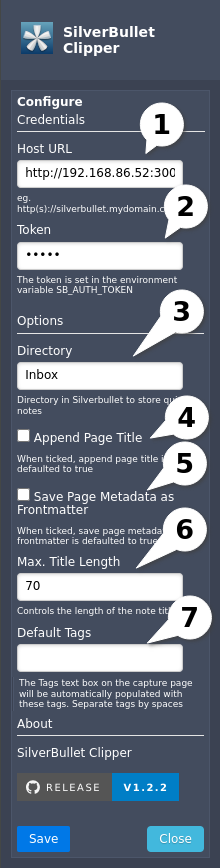
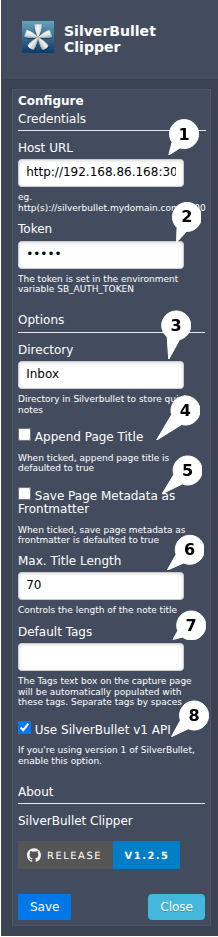
v1.3.5 Added compatibility to SB v2 and backward compatability to v1. Tried to fix images coming from CDNs

diff --git a/src/js/popup.template.js b/src/js/popup.template.js
@@ -33,10 +33,11 @@ document.addEventListener("DOMContentLoaded", () => {
         const token = document.getElementById("token").value;
         const directory = document.getElementById('directory').value;
         const appendPageTitleDefault = document.getElementById('append-page-title-default').checked;
+        const useSilverBulletV1API = document.getElementById('use-silverbullet-v1-api').checked;
         const saveMetadataAsFrontmatterDefault = document.getElementById('save-metadata-as-frontmatter-default').checked;
         const maxTitleLength = document.getElementById("max-title-length").value;
         const defaultTags = document.getElementById("default-tags").value;
-        <%= runTime %>.storage.sync.set({ "hostURL": hostURL, "token": token, "directory": directory, "appendPageTitleDefault": appendPageTitleDefault, "maxTitleLength": maxTitleLength, "saveMetadataAsFrontmatterDefault": saveMetadataAsFrontmatterDefault, "defaultTags": defaultTags }, () => {
+        <%= runTime %>.storage.sync.set({ "hostURL": hostURL, "token": token, "directory": directory, "appendPageTitleDefault": appendPageTitleDefault, "maxTitleLength": maxTitleLength, "saveMetadataAsFrontmatterDefault": saveMetadataAsFrontmatterDefault, "defaultTags": defaultTags, "useSilverBulletV1API": useSilverBulletV1API }, () => {
             hideConfigure();
             showCapture();
             document.getElementById('append-page-title').checked = appendPageTitleDefault;
@@ -71,7 +72,7 @@ document.addEventListener("DOMContentLoaded", () => {
     });
     displayTitle();
     //Prompt to provide credentials if they are missing
-    <%= runTime %>.storage.sync.get(["hostURL", "token", "directory", "appendPageTitleDefault", "saveMetadataAsFrontmatterDefault", "defaultTags"]).then(items => {
+    <%= runTime %>.storage.sync.get(["hostURL", "token", "directory", "appendPageTitleDefault", "saveMetadataAsFrontmatterDefault", "defaultTags", "useSilverBulletV1API"]).then(items => {
         if(items === null || items.hostURL === null || items.hostURL === '' || items.directory === null || items.directory === '') 
         {
             hideCapture();
@@ -99,11 +100,12 @@ function showConfigure() {
         configure.classList.remove("hidden");
     }
     //Get the hostURL and token from storage
-    <%= runTime %>.storage.sync.get(["hostURL", "token", "directory", "appendPageTitleDefault", "maxTitleLength", "saveMetadataAsFrontmatterDefault", "defaultTags"], (items) => {
+    <%= runTime %>.storage.sync.get(["hostURL", "token", "directory", "appendPageTitleDefault", "maxTitleLength", "saveMetadataAsFrontmatterDefault", "defaultTags", "useSilverBulletV1API"], (items) => {
         document.getElementById('hostURL').value = items?.hostURL || '';
         document.getElementById('token').value = items?.token || '';
         document.getElementById('directory').value = items.directory || 'Inbox';
         document.getElementById('append-page-title-default').checked = items.appendPageTitleDefault;
+        document.getElementById('use-silverbullet-v1-api').checked = items.useSilverBulletV1API;
         document.getElementById('save-metadata-as-frontmatter-default').checked = items.saveMetadataAsFrontmatterDefault;
         document.getElementById('max-title-length').value = items.maxTitleLength || '70';
         document.getElementById('default-tags').value = items.defaultTags || '';

diff --git a/dist/firefox/js/popup.js b/dist/firefox/js/popup.js
@@ -33,10 +33,11 @@ document.addEventListener("DOMContentLoaded", () => {
         const token = document.getElementById("token").value;
         const directory = document.getElementById('directory').value;
         const appendPageTitleDefault = document.getElementById('append-page-title-default').checked;
+        const useSilverBulletV1API = document.getElementById('use-silverbullet-v1-api').checked;
         const saveMetadataAsFrontmatterDefault = document.getElementById('save-metadata-as-frontmatter-default').checked;
         const maxTitleLength = document.getElementById("max-title-length").value;
         const defaultTags = document.getElementById("default-tags").value;
-        browser.storage.sync.set({ "hostURL": hostURL, "token": token, "directory": directory, "appendPageTitleDefault": appendPageTitleDefault, "maxTitleLength": maxTitleLength, "saveMetadataAsFrontmatterDefault": saveMetadataAsFrontmatterDefault, "defaultTags": defaultTags }, () => {
+        browser.storage.sync.set({ "hostURL": hostURL, "token": token, "directory": directory, "appendPageTitleDefault": appendPageTitleDefault, "maxTitleLength": maxTitleLength, "saveMetadataAsFrontmatterDefault": saveMetadataAsFrontmatterDefault, "defaultTags": defaultTags, "useSilverBulletV1API": useSilverBulletV1API }, () => {
             hideConfigure();
             showCapture();
             document.getElementById('append-page-title').checked = appendPageTitleDefault;
@@ -71,7 +72,7 @@ document.addEventListener("DOMContentLoaded", () => {
     });
     displayTitle();
     //Prompt to provide credentials if they are missing
-    browser.storage.sync.get(["hostURL", "token", "directory", "appendPageTitleDefault", "saveMetadataAsFrontmatterDefault", "defaultTags"]).then(items => {
+    browser.storage.sync.get(["hostURL", "token", "directory", "appendPageTitleDefault", "saveMetadataAsFrontmatterDefault", "defaultTags", "useSilverBulletV1API"]).then(items => {
         if(items === null || items.hostURL === null || items.hostURL === '' || items.directory === null || items.directory === '') 
         {
             hideCapture();
@@ -99,11 +100,12 @@ function showConfigure() {
         configure.classList.remove("hidden");
     }
     //Get the hostURL and token from storage
-    browser.storage.sync.get(["hostURL", "token", "directory", "appendPageTitleDefault", "maxTitleLength", "saveMetadataAsFrontmatterDefault", "defaultTags"], (items) => {
+    browser.storage.sync.get(["hostURL", "token", "directory", "appendPageTitleDefault", "maxTitleLength", "saveMetadataAsFrontmatterDefault", "defaultTags", "useSilverBulletV1API"], (items) => {
         document.getElementById('hostURL').value = items?.hostURL || '';
         document.getElementById('token').value = items?.token || '';
         document.getElementById('directory').value = items.directory || 'Inbox';
         document.getElementById('append-page-title-default').checked = items.appendPageTitleDefault;
+        document.getElementById('use-silverbullet-v1-api').checked = items.useSilverBulletV1API;
         document.getElementById('save-metadata-as-frontmatter-default').checked = items.saveMetadataAsFrontmatterDefault;
         document.getElementById('max-title-length').value = items.maxTitleLength || '70';
         document.getElementById('default-tags').value = items.defaultTags || '';

diff --git a/dist/chrome/js/popup.js b/dist/chrome/js/popup.js
@@ -33,10 +33,11 @@ document.addEventListener("DOMContentLoaded", () => {
         const token = document.getElementById("token").value;
         const directory = document.getElementById('directory').value;
         const appendPageTitleDefault = document.getElementById('append-page-title-default').checked;
+        const useSilverBulletV1API = document.getElementById('use-silverbullet-v1-api').checked;
         const saveMetadataAsFrontmatterDefault = document.getElementById('save-metadata-as-frontmatter-default').checked;
         const maxTitleLength = document.getElementById("max-title-length").value;
         const defaultTags = document.getElementById("default-tags").value;
-        chrome.storage.sync.set({ "hostURL": hostURL, "token": token, "directory": directory, "appendPageTitleDefault": appendPageTitleDefault, "maxTitleLength": maxTitleLength, "saveMetadataAsFrontmatterDefault": saveMetadataAsFrontmatterDefault, "defaultTags": defaultTags }, () => {
+        chrome.storage.sync.set({ "hostURL": hostURL, "token": token, "directory": directory, "appendPageTitleDefault": appendPageTitleDefault, "maxTitleLength": maxTitleLength, "saveMetadataAsFrontmatterDefault": saveMetadataAsFrontmatterDefault, "defaultTags": defaultTags, "useSilverBulletV1API": useSilverBulletV1API }, () => {
             hideConfigure();
             showCapture();
             document.getElementById('append-page-title').checked = appendPageTitleDefault;
@@ -71,7 +72,7 @@ document.addEventListener("DOMContentLoaded", () => {
     });
     displayTitle();
     //Prompt to provide credentials if they are missing
-    chrome.storage.sync.get(["hostURL", "token", "directory", "appendPageTitleDefault", "saveMetadataAsFrontmatterDefault", "defaultTags"]).then(items => {
+    chrome.storage.sync.get(["hostURL", "token", "directory", "appendPageTitleDefault", "saveMetadataAsFrontmatterDefault", "defaultTags", "useSilverBulletV1API"]).then(items => {
         if(items === null || items.hostURL === null || items.hostURL === '' || items.directory === null || items.directory === '') 
         {
             hideCapture();
@@ -99,11 +100,12 @@ function showConfigure() {
         configure.classList.remove("hidden");
     }
     //Get the hostURL and token from storage
-    chrome.storage.sync.get(["hostURL", "token", "directory", "appendPageTitleDefault", "maxTitleLength", "saveMetadataAsFrontmatterDefault", "defaultTags"], (items) => {
+    chrome.storage.sync.get(["hostURL", "token", "directory", "appendPageTitleDefault", "maxTitleLength", "saveMetadataAsFrontmatterDefault", "defaultTags", "useSilverBulletV1API"], (items) => {
         document.getElementById('hostURL').value = items?.hostURL || '';
         document.getElementById('token').value = items?.token || '';
         document.getElementById('directory').value = items.directory || 'Inbox';
         document.getElementById('append-page-title-default').checked = items.appendPageTitleDefault;
+        document.getElementById('use-silverbullet-v1-api').checked = items.useSilverBulletV1API;
         document.getElementById('save-metadata-as-frontmatter-default').checked = items.saveMetadataAsFrontmatterDefault;
         document.getElementById('max-title-length').value = items.maxTitleLength || '70';
         document.getElementById('default-tags').value = items.defaultTags || '';

diff --git a/dist/chrome/js/offscreen.js b/dist/chrome/js/offscreen.js
@@ -59,6 +59,7 @@ function convertToMarkdown(htmlString, url, title, pageTitle, tags, saveMetadata
     //The turndown service escapes any markdown characters in the URL and breaks the link so add the url after markdown coversion
     markdown = markdown.replace("urlPlaceholder", url);
     markdown = markdown.replace("pageTitlePlaceHolder", pageTitle);
+    markdown = fixMarkdownImageUrls(markdown);
     //Add frontmatter if wanted
     if(saveMetadataAsFrontmatter) {
         markdown = frontmatter + '\n' + '---' + '\n\n' + markdown;
@@ -70,6 +71,26 @@ function convertToMarkdown(htmlString, url, title, pageTitle, tags, saveMetadata
         title
     );
 }
+
+function fixMarkdownImageUrls(markdown) {
+    // Matches: ![alt](url "optional title")
+    // - Group 1: alt text
+    // - Group 2: the raw URL (http/https), without surrounding <>.
+    // - Group 3: optional title part (incl. leading whitespace)
+    const imgRegex = /!\[([^\]]*)\]\(\s*<?(https?:\/\/[^)\s>]+)>?(\s+(?:"[^"]*"|'[^']*'|\([^)]+\)))?\s*\)/g;
+
+    return markdown.replace(imgRegex, (match, alt, url, titlePart = '') => {
+        // If URL already ends with a known image extension (before ? or #), leave it.
+        if (/\.(jpg|jpeg|png|gif|webp|svg|avif)(?=[$?#])/i.test(url) || /\.(jpg|jpeg|png|gif|webp|svg|avif)$/i.test(url)) {
+            return match;
+        }
+        // Append .jpg before any query/hash
+        const fixedUrl = url.replace(/(?=(\?|#|$))/, '.jpg');
+        return `![${alt}](${fixedUrl}${titlePart || ''})`;
+    });
+}
+
+
 
 /* Get the current date stamp */
 function getDateStamp(date) {

diff --git a/dist/firefox/js/offscreen.js b/dist/firefox/js/offscreen.js
@@ -59,6 +59,7 @@ function convertToMarkdown(htmlString, url, title, pageTitle, tags, saveMetadata
     //The turndown service escapes any markdown characters in the URL and breaks the link so add the url after markdown coversion
     markdown = markdown.replace("urlPlaceholder", url);
     markdown = markdown.replace("pageTitlePlaceHolder", pageTitle);
+    markdown = fixMarkdownImageUrls(markdown);
     //Add frontmatter if wanted
     if(saveMetadataAsFrontmatter) {
         markdown = frontmatter + '\n' + '---' + '\n\n' + markdown;
@@ -70,6 +71,26 @@ function convertToMarkdown(htmlString, url, title, pageTitle, tags, saveMetadata
         title
     );
 }
+
+function fixMarkdownImageUrls(markdown) {
+    // Matches: ![alt](url "optional title")
+    // - Group 1: alt text
+    // - Group 2: the raw URL (http/https), without surrounding <>.
+    // - Group 3: optional title part (incl. leading whitespace)
+    const imgRegex = /!\[([^\]]*)\]\(\s*<?(https?:\/\/[^)\s>]+)>?(\s+(?:"[^"]*"|'[^']*'|\([^)]+\)))?\s*\)/g;
+
+    return markdown.replace(imgRegex, (match, alt, url, titlePart = '') => {
+        // If URL already ends with a known image extension (before ? or #), leave it.
+        if (/\.(jpg|jpeg|png|gif|webp|svg|avif)(?=[$?#])/i.test(url) || /\.(jpg|jpeg|png|gif|webp|svg|avif)$/i.test(url)) {
+            return match;
+        }
+        // Append .jpg before any query/hash
+        const fixedUrl = url.replace(/(?=(\?|#|$))/, '.jpg');
+        return `![${alt}](${fixedUrl}${titlePart || ''})`;
+    });
+}
+
+
 
 /* Get the current date stamp */
 function getDateStamp(date) {

diff --git a/src/js/offscreen.template.js b/src/js/offscreen.template.js
@@ -59,6 +59,7 @@ function convertToMarkdown(htmlString, url, title, pageTitle, tags, saveMetadata
     //The turndown service escapes any markdown characters in the URL and breaks the link so add the url after markdown coversion
     markdown = markdown.replace("urlPlaceholder", url);
     markdown = markdown.replace("pageTitlePlaceHolder", pageTitle);
+    markdown = fixMarkdownImageUrls(markdown);
     //Add frontmatter if wanted
     if(saveMetadataAsFrontmatter) {
         markdown = frontmatter + '\n' + '---' + '\n\n' + markdown;
@@ -70,6 +71,26 @@ function convertToMarkdown(htmlString, url, title, pageTitle, tags, saveMetadata
         title
     );
 }
+
+function fixMarkdownImageUrls(markdown) {
+    // Matches: ![alt](url "optional title")
+    // - Group 1: alt text
+    // - Group 2: the raw URL (http/https), without surrounding <>.
+    // - Group 3: optional title part (incl. leading whitespace)
+    const imgRegex = /!\[([^\]]*)\]\(\s*<?(https?:\/\/[^)\s>]+)>?(\s+(?:"[^"]*"|'[^']*'|\([^)]+\)))?\s*\)/g;
+
+    return markdown.replace(imgRegex, (match, alt, url, titlePart = '') => {
+        // If URL already ends with a known image extension (before ? or #), leave it.
+        if (/\.(jpg|jpeg|png|gif|webp|svg|avif)(?=[$?#])/i.test(url) || /\.(jpg|jpeg|png|gif|webp|svg|avif)$/i.test(url)) {
+            return match;
+        }
+        // Append .jpg before any query/hash
+        const fixedUrl = url.replace(/(?=(\?|#|$))/, '.jpg');
+        return `![${alt}](${fixedUrl}${titlePart || ''})`;
+    });
+}
+
+
 
 /* Get the current date stamp */
 function getDateStamp(date) {

diff --git a/dist/firefox/js/service-worker.js b/dist/firefox/js/service-worker.js
@@ -149,10 +149,11 @@ async function captureTab(title, tags, appendPageTitle, saveMetadataAsFrontmatte
 
 /* Send the markdown to the Silverbullet endpoint */
 function sendCaptureToEndpoint(markdown, title) {
-    browser.storage.sync.get(["hostURL", "token", "directory"], (items) => {
+    browser.storage.sync.get(["hostURL", "token", "directory", "useSilverBulletV1API"], (items) => {
         items.directory = (items.directory == null)?'Inbox':items.directory;
-        const link = items.hostURL + '/' + items.directory + '/' + getDateStamp(new Date()) + '/' + encodeURI(title);
-        const endpoint = link + '.md';
+        const pageLink = items.hostURL + '/' + items.directory + '/' + getDateStamp(new Date()) + '/' + encodeURI(title);
+        const apiLink = items.hostURL + (!items.useSilverBulletV1API ? '/.fs/' : '/') + items.directory + '/' + getDateStamp(new Date()) + '/' + encodeURI(title);
+        const endpoint = apiLink + '.md';
         const requestOptions = {
             method: 'PUT',
             headers: {
@@ -170,7 +171,7 @@ function sendCaptureToEndpoint(markdown, title) {
                 browser.runtime.sendMessage({
                     type: 'link',
                     target: 'popup',
-                    url: link
+                    url: pageLink
                 });
             }
         })

diff --git a/src/js/service-worker.template.js b/src/js/service-worker.template.js
@@ -263,10 +263,11 @@ async function hasDocument() {
 <% } %>
 /* Send the markdown to the Silverbullet endpoint */
 function sendCaptureToEndpoint(markdown, title) {
-    <%= runTime %>.storage.sync.get(["hostURL", "token", "directory"], (items) => {
+    <%= runTime %>.storage.sync.get(["hostURL", "token", "directory", "useSilverBulletV1API"], (items) => {
         items.directory = (items.directory == null)?'Inbox':items.directory;
-        const link = items.hostURL + '/' + items.directory + '/' + getDateStamp(new Date()) + '/' + encodeURI(title);
-        const endpoint = link + '.md';
+        const pageLink = items.hostURL + '/' + items.directory + '/' + getDateStamp(new Date()) + '/' + encodeURI(title);
+        const apiLink = items.hostURL + (!items.useSilverBulletV1API ? '/.fs/' : '/') + items.directory + '/' + getDateStamp(new Date()) + '/' + encodeURI(title);
+        const endpoint = apiLink + '.md';
         const requestOptions = {
             method: 'PUT',
             headers: {
@@ -284,7 +285,7 @@ function sendCaptureToEndpoint(markdown, title) {
                 <%= runTime %>.runtime.sendMessage({
                     type: 'link',
                     target: 'popup',
-                    url: link
+                    url: pageLink
                 });
             }
         })

diff --git a/dist/chrome/js/service-worker.js b/dist/chrome/js/service-worker.js
@@ -177,10 +177,11 @@ async function hasDocument() {
 
 /* Send the markdown to the Silverbullet endpoint */
 function sendCaptureToEndpoint(markdown, title) {
-    chrome.storage.sync.get(["hostURL", "token", "directory"], (items) => {
+    chrome.storage.sync.get(["hostURL", "token", "directory", "useSilverBulletV1API"], (items) => {
         items.directory = (items.directory == null)?'Inbox':items.directory;
-        const link = items.hostURL + '/' + items.directory + '/' + getDateStamp(new Date()) + '/' + encodeURI(title);
-        const endpoint = link + '.md';
+        const pageLink = items.hostURL + '/' + items.directory + '/' + getDateStamp(new Date()) + '/' + encodeURI(title);
+        const apiLink = items.hostURL + (!items.useSilverBulletV1API ? '/.fs/' : '/') + items.directory + '/' + getDateStamp(new Date()) + '/' + encodeURI(title);
+        const endpoint = apiLink + '.md';
         const requestOptions = {
             method: 'PUT',
             headers: {
@@ -198,7 +199,7 @@ function sendCaptureToEndpoint(markdown, title) {
                 chrome.runtime.sendMessage({
                     type: 'link',
                     target: 'popup',
-                    url: link
+                    url: pageLink
                 });
             }
         })

diff --git a/dist/chrome/html/popup.html b/dist/chrome/html/popup.html
@@ -144,6 +144,10 @@
                     <label for="max-title-length">Default Tags</label>
                     <input type="text" id="default-tags">
                     <span class="pure-form-message">The Tags text box on the capture page will be automatically populated with these tags. Separate tags by spaces</span>
+                    <label for="use-silverbullet-v1-api" class="pure-checkbox">
+                        <input type="checkbox" id="use-silverbullet-v1-api"/> Use SilverBullet v1 API
+                    </label>
+                    <span class="pure-form-message">If you're using version 1 of SilverBullet, enable this option.</span>
                 </fieldset>
                 <fieldset>
                     <legend>About</legend>

diff --git a/dist/firefox/html/popup.html b/dist/firefox/html/popup.html
@@ -144,6 +144,10 @@
                     <label for="max-title-length">Default Tags</label>
                     <input type="text" id="default-tags">
                     <span class="pure-form-message">The Tags text box on the capture page will be automatically populated with these tags. Separate tags by spaces</span>
+                    <label for="use-silverbullet-v1-api" class="pure-checkbox">
+                        <input type="checkbox" id="use-silverbullet-v1-api"/> Use SilverBullet v1 API
+                    </label>
+                    <span class="pure-form-message">If you're using version 1 of SilverBullet, enable this option.</span>
                 </fieldset>
                 <fieldset>
                     <legend>About</legend>

diff --git a/src/html/popup.template.html b/src/html/popup.template.html
@@ -144,6 +144,10 @@
                     <label for="max-title-length">Default Tags</label>
                     <input type="text" id="default-tags">
                     <span class="pure-form-message">The Tags text box on the capture page will be automatically populated with these tags. Separate tags by spaces</span>
+                    <label for="use-silverbullet-v1-api" class="pure-checkbox">
+                        <input type="checkbox" id="use-silverbullet-v1-api"/> Use SilverBullet v1 API
+                    </label>
+                    <span class="pure-form-message">If you're using version 1 of SilverBullet, enable this option.</span>
                 </fieldset>
                 <fieldset>
                     <legend>About</legend>
